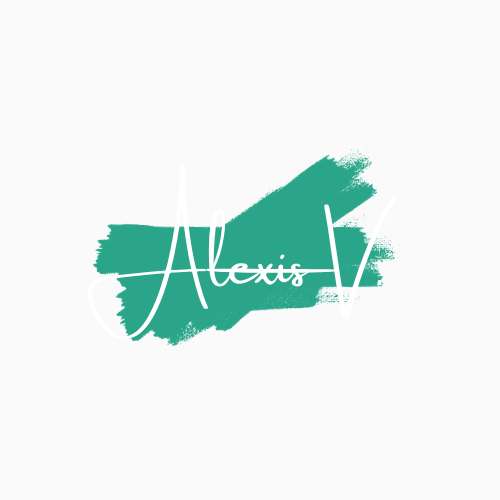
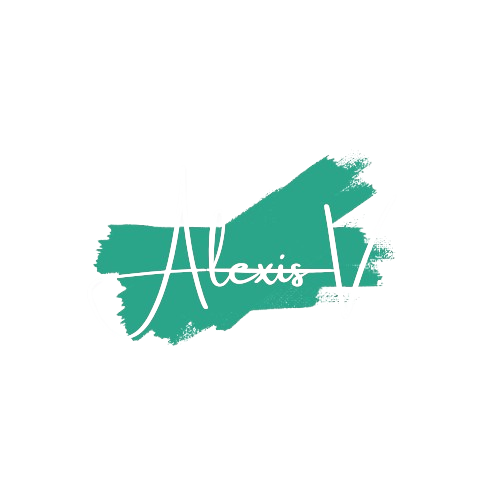
my services section

diff --git a/components/Hero.jsx b/components/Hero.jsx
@@ -16,10 +16,15 @@ const Hero = () => {
       <div className="container mx-auto">
         <div className="flex justify-between gap-x-8">
           {/* text */}
-          <div className="flex max-w-[600px] flex-col justify-center mx-auto xl:mx-5 text-center xl:text-left">
-            <h1 className="h1">Hello, my name is Alexis Vacilli</h1>
-            <div className="text-sm font-bold mt-4 text-primary tracking-[4px] uppercase">
-              I am <span>Software Developer</span>
+          <div className="flex max-w-[600px] flex-col justify-center mx-auto xl:mx-5 text-center xl:text-left ">
+            <h1 className="h1 bg-hero bg-right bg-no-repeat">
+              Hello, my name is Alexis Vacilli
+            </h1>
+            <div className="text-sm font-bold mt-4 tracking-[4px] uppercase">
+              I am{" "}
+              <span className="secondary-font text-primary font-bold">
+                Software Developer
+              </span>
             </div>
             <p className="mt-4 subtitle max-w-[490px] mx-auto xl:mx-0">
               Lorem ipsum dolor sit amet, consectetur adipisicing elit.
@@ -27,7 +32,7 @@ const Hero = () => {
               voluptate blanditiis officia beatae!
             </p>
             {/* Buttons */}
-            <div>
+            {/* <div className='mb-8'>
               <Button
                 variant="outline"
                 className="gap-x-2 border-2 border-primary text-primary hover:bg-primary hover:text-white"
@@ -35,10 +40,18 @@ const Hero = () => {
                 Download CV
                 <Download size={16} />
               </Button>
-            </div>
+            </div> */}
+            {/* Socials */}
+            <Socials
+              containerStyles="flex gap-x-4 mx-auto xl:mx-0"
+              iconsStyles="text-foreground text-[25px] hover:text-primary transition-all"
+            />
           </div>
           {/* Image */}
-          <div className="hidden xl:flex relative">Image</div>
+          <div className="hidden xl:flex relative">
+            <div className="bg-hero_shape_light dark:bg-hero_shape_dark w-[600px] h-[600px] bg-no-repeat absolute -top-28 -right-2"></div>
+            <DevImg containerStyles="" imgSrc="" />
+          </div>
         </div>
         {/* icon */}
         <div className="hidden md:flex absolute left-2/4 bottom-44 xl:bottom-12">

diff --git a/components/Services.jsx b/components/Services.jsx
@@ -1,0 +1,34 @@
+import {GanttChartSquare, Blocks, Gem} from 'lucide-react';
+import {Card, CardContent, CardDescription, CardHeader, CardTitle} from '@/components/ui/card'
+
+
+const servieData = [
+    {
+        icon: <GanttChartSquare size={72} strokeWidth={0.8} />,
+        title: 'Web Design',
+        description: 'Lorem ipsum dolor, sit amet consectetur adipisicing elit. Aperiam, eius?'
+    },
+    {
+        icon: <Blocks size={72} strokeWidth={0.8} />,
+        title: 'Web Development',
+        description: 'Lorem ipsum dolor, sit amet consectetur adipisicing elit. Aperiam, eius?'
+    },
+    {
+        icon: <Gem size={72} strokeWidth={0.8} />,
+        title: 'App Development',
+        description: 'Lorem ipsum dolor, sit amet consectetur adipisicing elit. Aperiam, eius?'
+    }
+
+]
+
+const Services = () => {
+    return (
+        <section className='mb-12 xl:mb-36'>
+            <div className='container mx-auto'>
+                <h2 className='section-title'>My Services</h2>
+            </div>
+        </section>
+    )
+}
+
+export default Services

diff --git a/components/ui/Socials.jsx b/components/ui/Socials.jsx
@@ -1,11 +1,43 @@
-import React from 'react'
+"use client";
+import { Button } from "./button";
 
-const Socials = () => {
-    return (
-        <div>
-            Socials
-        </div>
-    )
-}
+import {
+  RiTwitterXFill,
+  RiGithubFill,
+  RiDribbbleFill,
+  RiLinkedinFill,
+} from "react-icons/ri";
+import Link from "next/link";
 
-export default Socials
+// Icon links
+
+const icons = [
+  {
+    path: "/",
+    name: <RiTwitterXFill />,
+  },
+  {
+    path: "/",
+    name: <RiGithubFill />,
+  },
+  {
+    path: "/",
+    name: <RiDribbbleFill />,
+  }
+];
+
+const Socials = ({ containerStyles, iconsStyles }) => {
+  return (
+    <div className={`${containerStyles}`}>
+      {icons.map((icon, index) => {
+        return (
+          <Link href={icon.path} key={index}>
+            <div className={`${iconsStyles}`}>{icon.name}</div>
+          </Link>
+        );
+      })}
+    </div>
+  );
+};
+
+export default Socials;

diff --git a/app/globals.css b/app/globals.css
@@ -1,4 +1,4 @@
-@import url('https://fonts.googleapis.com/css2?family=Caveat:wght@400;700&display=swap');
+@import url('https://fonts.googleapis.com/css2?family=Caveat:wght@500;600;700&display=swap');
 
 @tailwind base;
 @tailwind components;
@@ -7,7 +7,7 @@
 
 @layer base {
   :root {
-    --background: 40, 30%, 96%;
+    --background: 35, 32%, 93%;
     --foreground: 0, 0%, 16.1%;
     --card: 0 0% 100%;
     --card-foreground: 240 10% 3.9%;
@@ -72,4 +72,6 @@
 
 
 
-
+.secondary-font{
+  font-family: 'Caveat', cursive;
+}

diff --git a/tailwind.config.js b/tailwind.config.js
@@ -71,6 +71,14 @@ module.exports = {
         "accordion-down": "accordion-down 0.2s ease-out",
         "accordion-up": "accordion-up 0.2s ease-out",
       },
+      backgroundImage: {
+        hero: 'url(/assets/bg3.png)',
+        hero_shape_light: 'url(/assets/shape-light.png)',
+        hero_shape_dark: 'url(/assets/shape-dark.png)',
+        
+
+
+      },
     },
   },
   plugins: [require("tailwindcss-animate")],

diff --git a/components/Header.jsx b/components/Header.jsx
@@ -18,7 +18,11 @@ const Header = () => {
   });
   return (
     <header
-      className={`sticky top-0 transition-all`}
+      className={`${
+        header
+          ? "bg-[#F2EDE6]  dark:bg-[#232932]"
+          : "dark:bg-transparent"
+      } sticky top-0 transition-all`}
     >
       <div className="container mx-auto">
         <div className="flex justify-between items-center">

diff --git a/components/ui/DevImg.jsx b/components/ui/DevImg.jsx
@@ -1,11 +1,12 @@
 import React from 'react';
+import Image from 'next/image'
 
 // components
 
-const DevImg = () => {
+const DevImg = ({containerStyles, imgSrc}) => {
     return (
-        <div>
-            Dev image
+        <div className={`${containerStyles}`}>
+            <Image src={imgSrc} fill priority alt='profile-image'/>
         </div>
     )
 }

diff --git a/app/page.jsx b/app/page.jsx
@@ -1,9 +1,11 @@
 import Hero from "@/components/Hero";
+import Services from "@/components/Services";
 
 export default function Home() {
   return (
     <main>
         <Hero />
+        <Services />
     </main>
   )
 }
